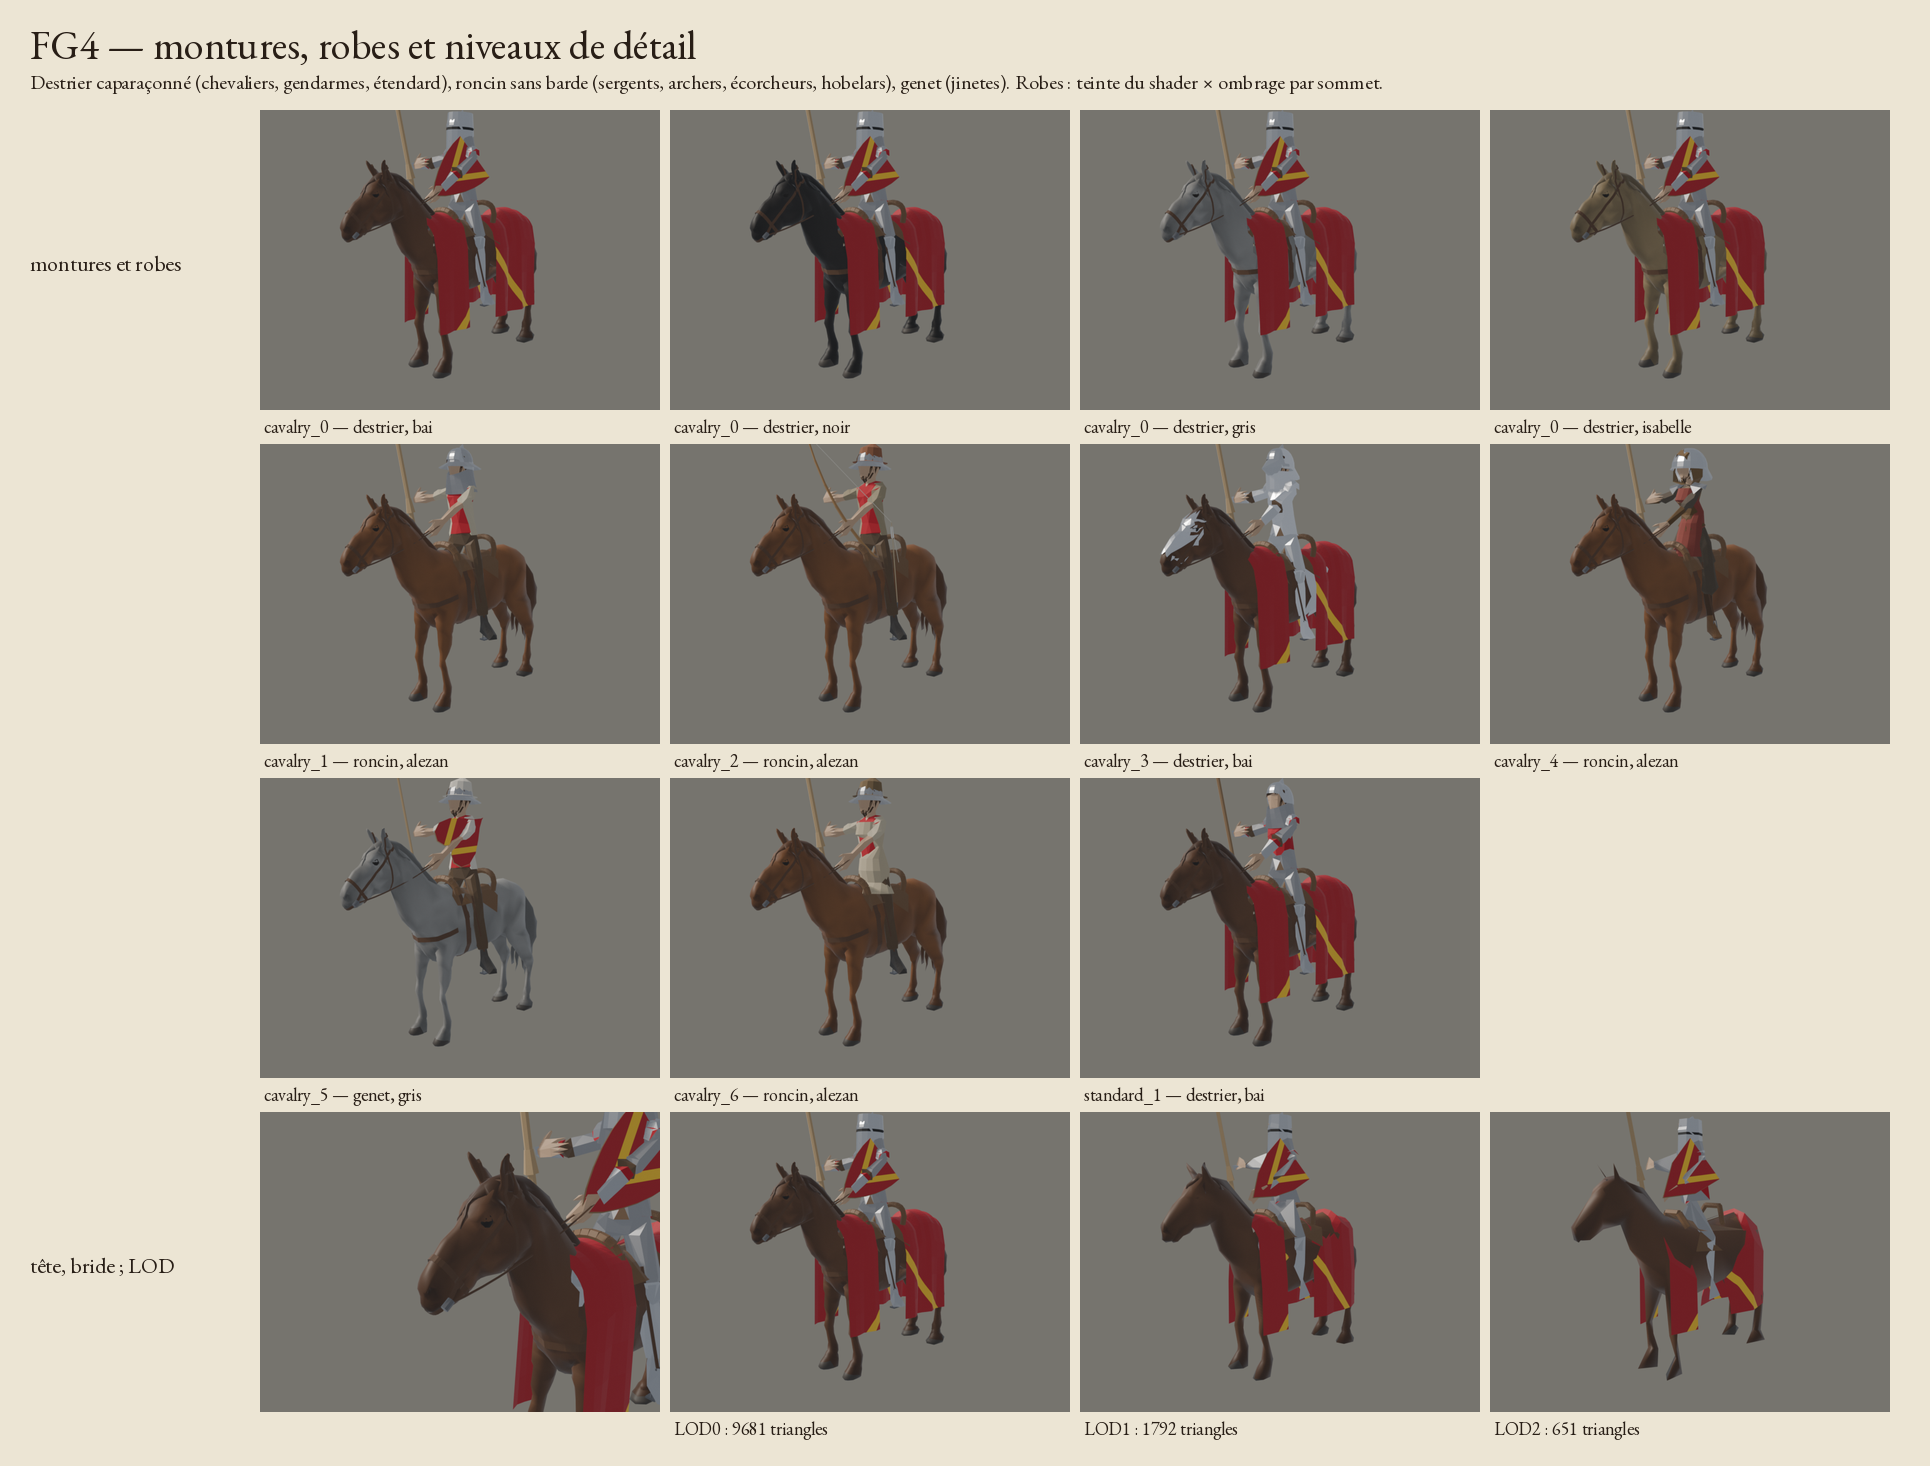
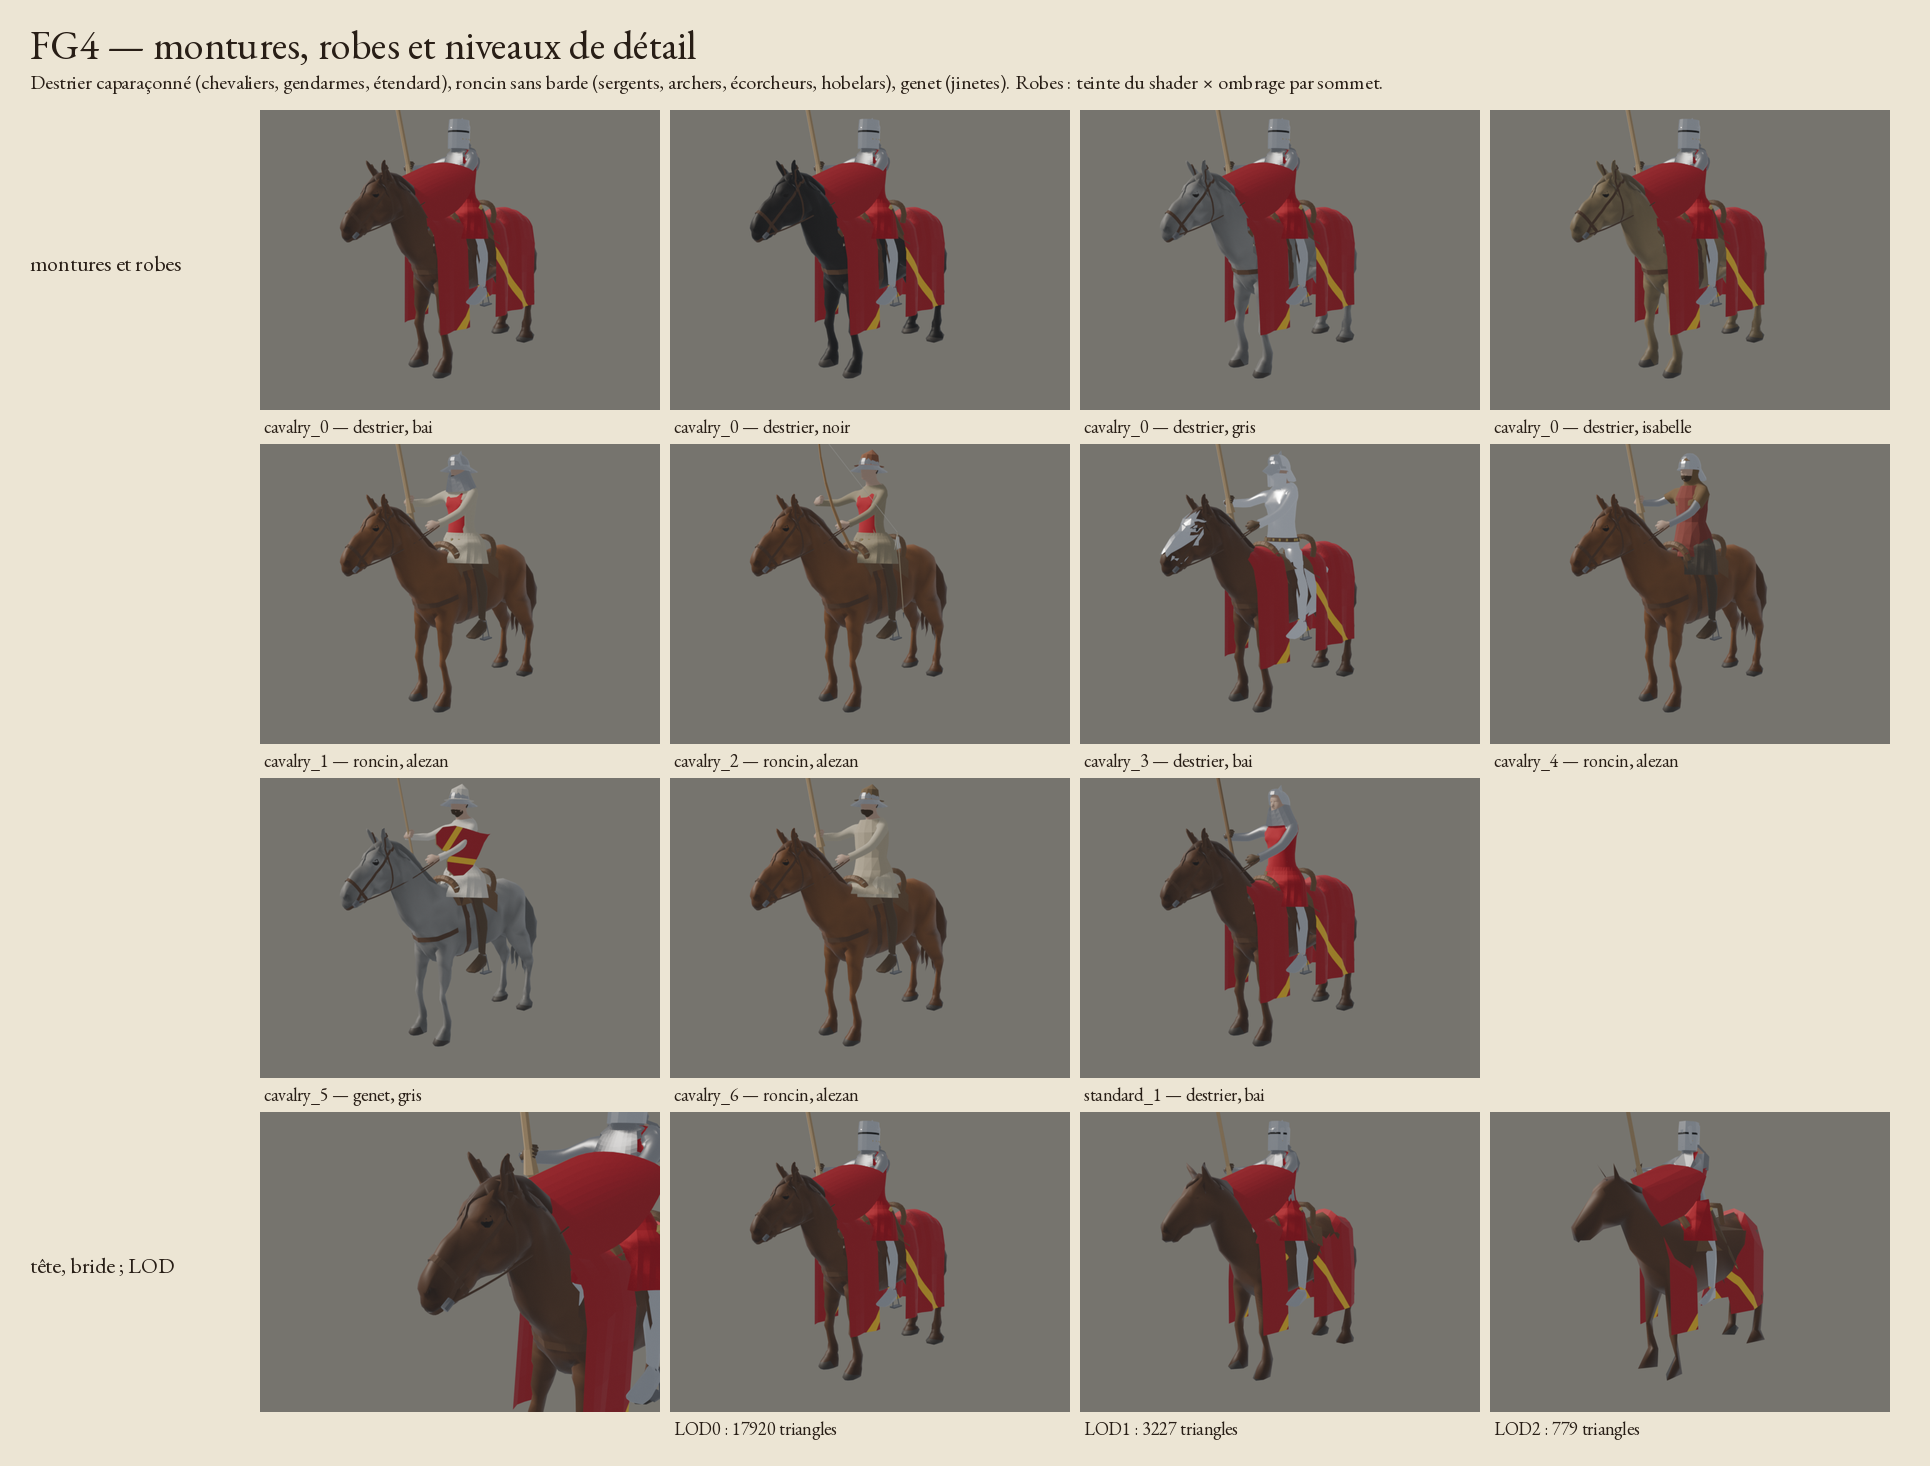
wip: FG4 check sheets re-rendered with the FG1 fine rider

diff --git a/tools/blender_scripts/fg4_planche.py b/tools/blender_scripts/fg4_planche.py
@@ -80,8 +80,8 @@ def main():
         _sheet(
             f"FG4 — cheval fin sur les clips du rig « cavalry » ({cfig}, {horse})",
             "Mêmes os, même texture d'os : poids calculés dans la pose naturelle, "
-            "articulations posées sur les pivots des clips. Rendu Eevee, cavalier actuel "
-            "(en attendant FG1).",
+            "articulations posées sur les pivots des clips. Rendu Eevee, cavalier fin FG1 "
+            "(corps MakeHuman).",
             rows,
         ).save(
             os.path.join(
